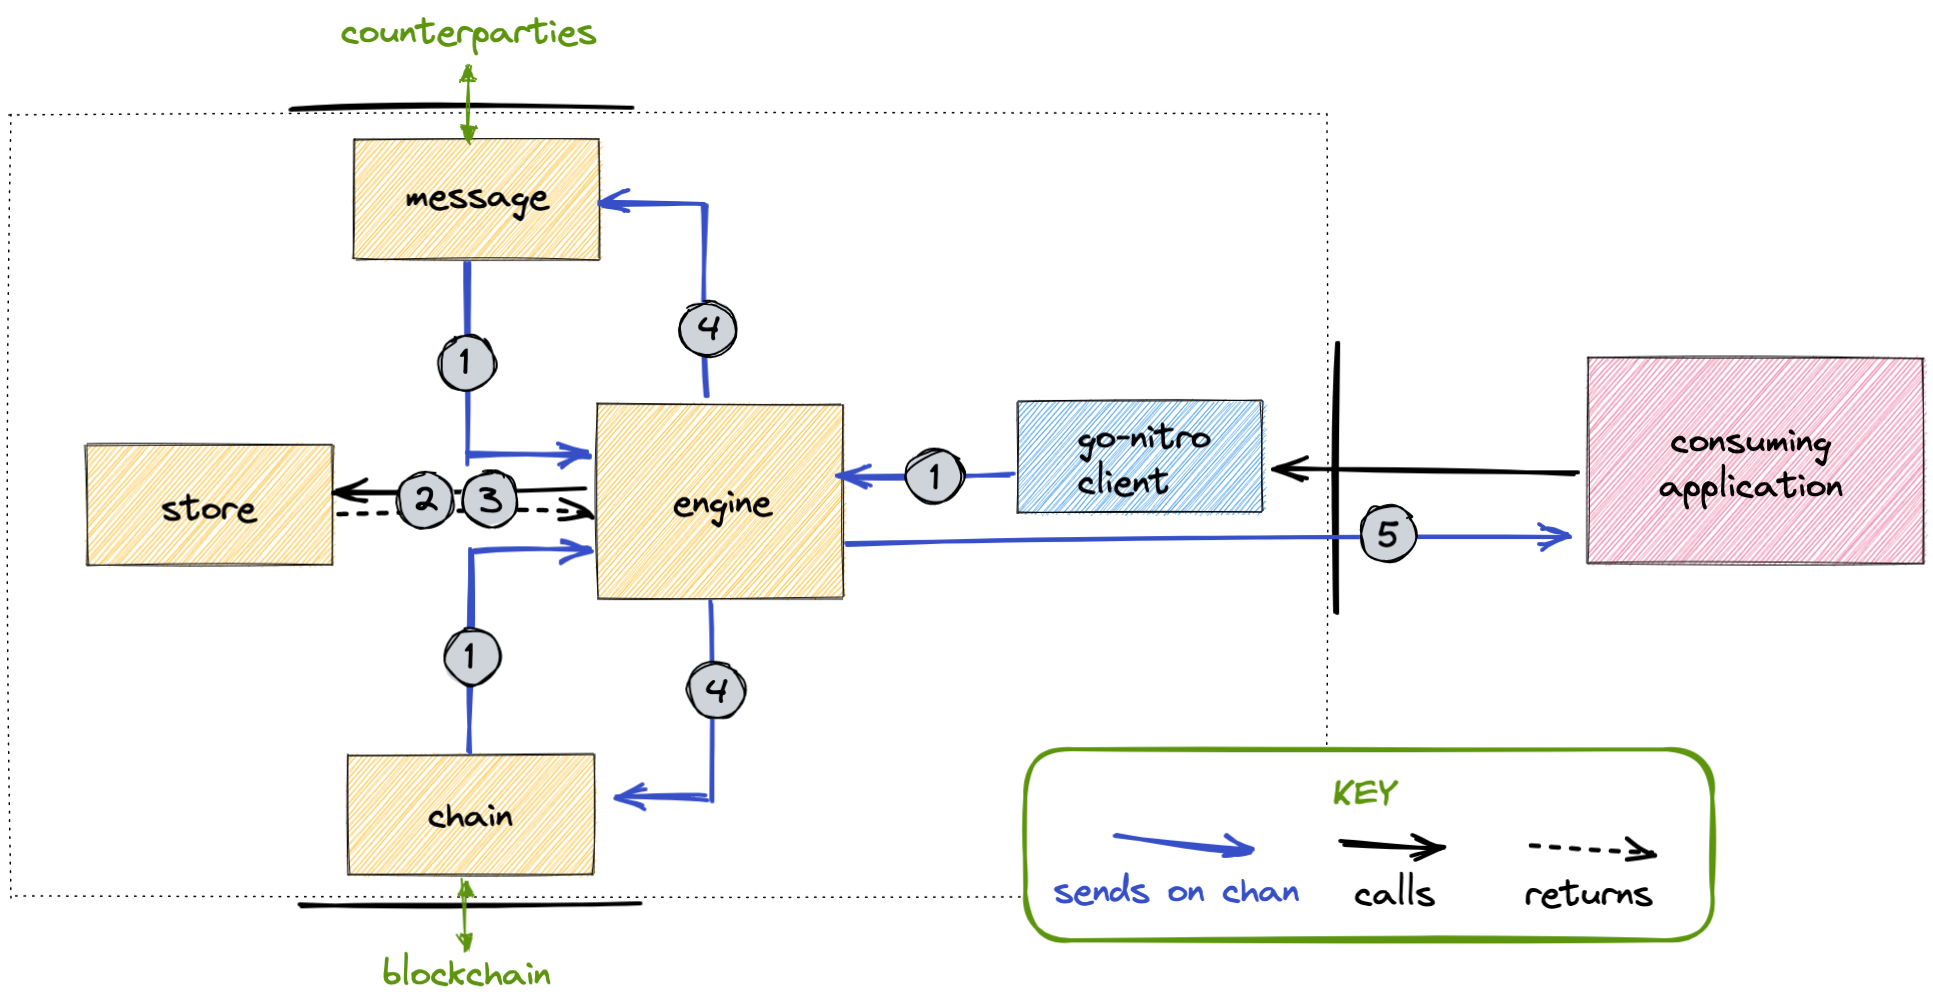
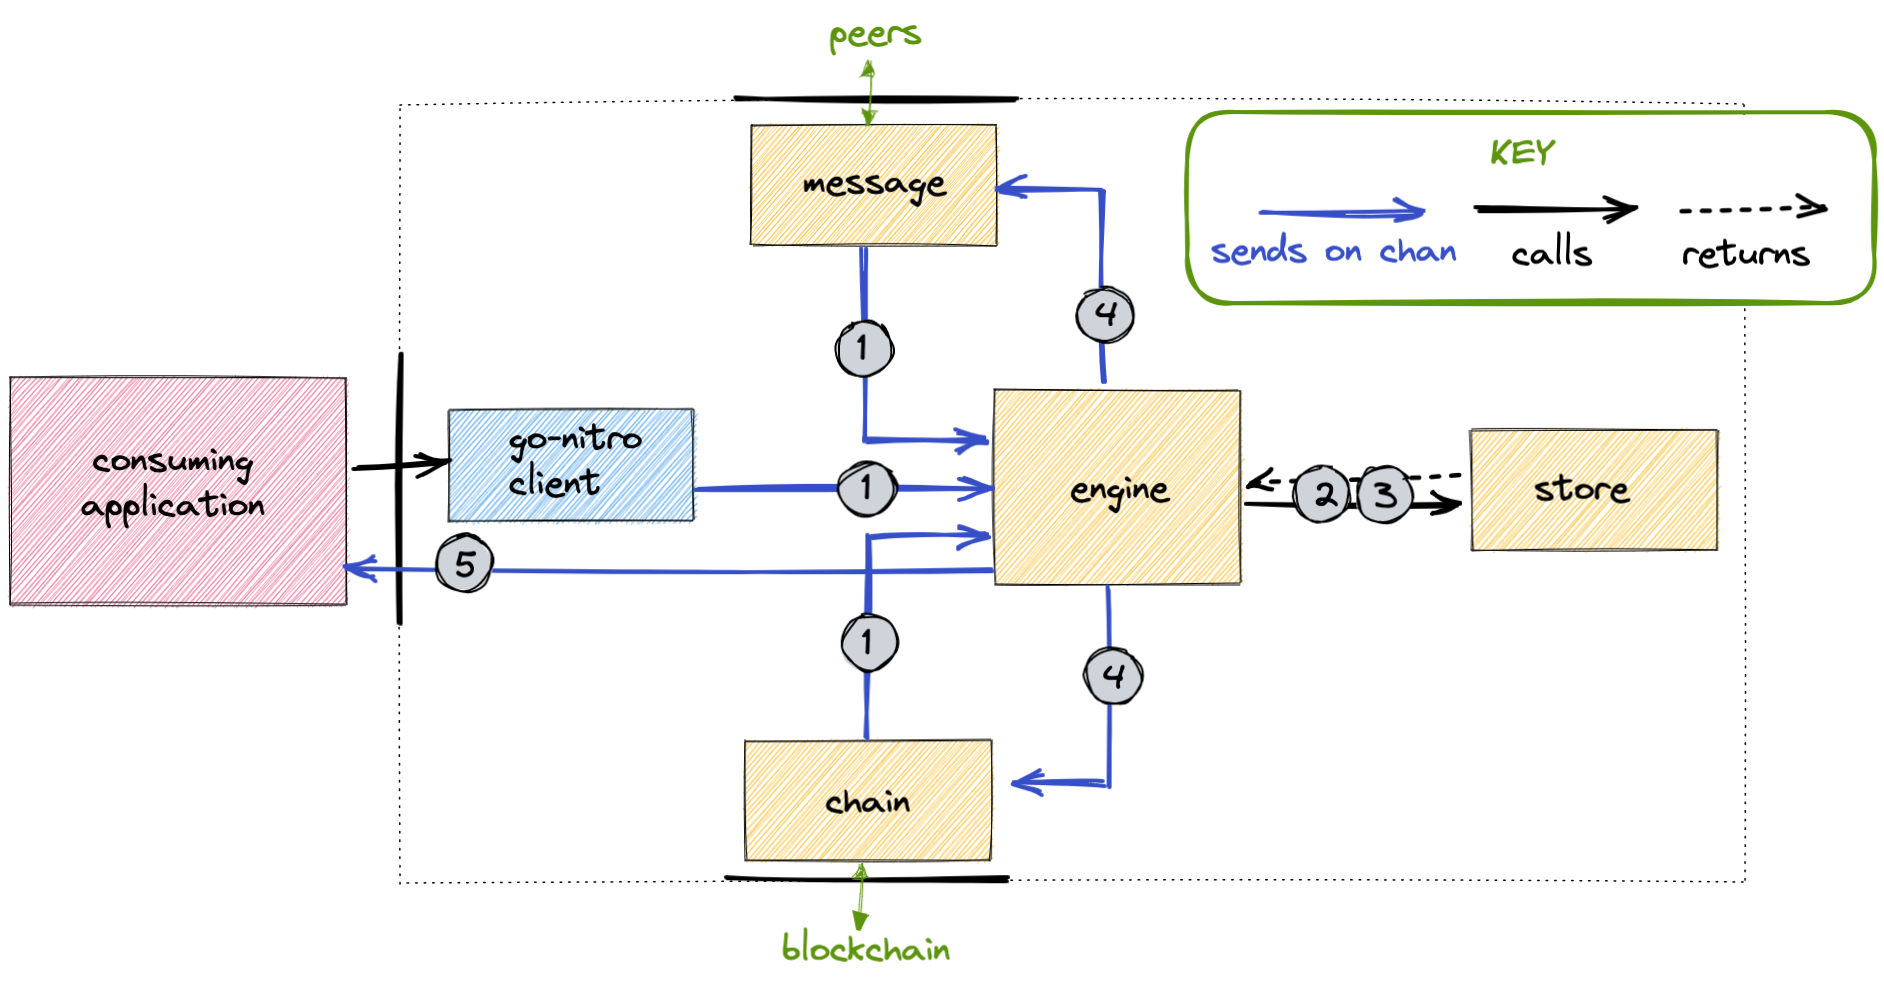
rearrange diagram
all inputs enter from left to right, effects then go from right to left

diff --git a/client/readme.md b/client/readme.md
@@ -21,4 +21,4 @@ The `chain` and `message` services are responsible for communicating with the bl
 
 ---
 
-[Click here to edit the diagram](https://excalidraw.com/#json=vUHADWSbOLrvpHgLlNPra,n58q74_1xuyxabVTLnuyGg)
+[Click here to edit the diagram](https://excalidraw.com/#json=boyMvd14JkaqjD3cRSg0s,xnxQRDKynDM-h28-cWq2mA)
